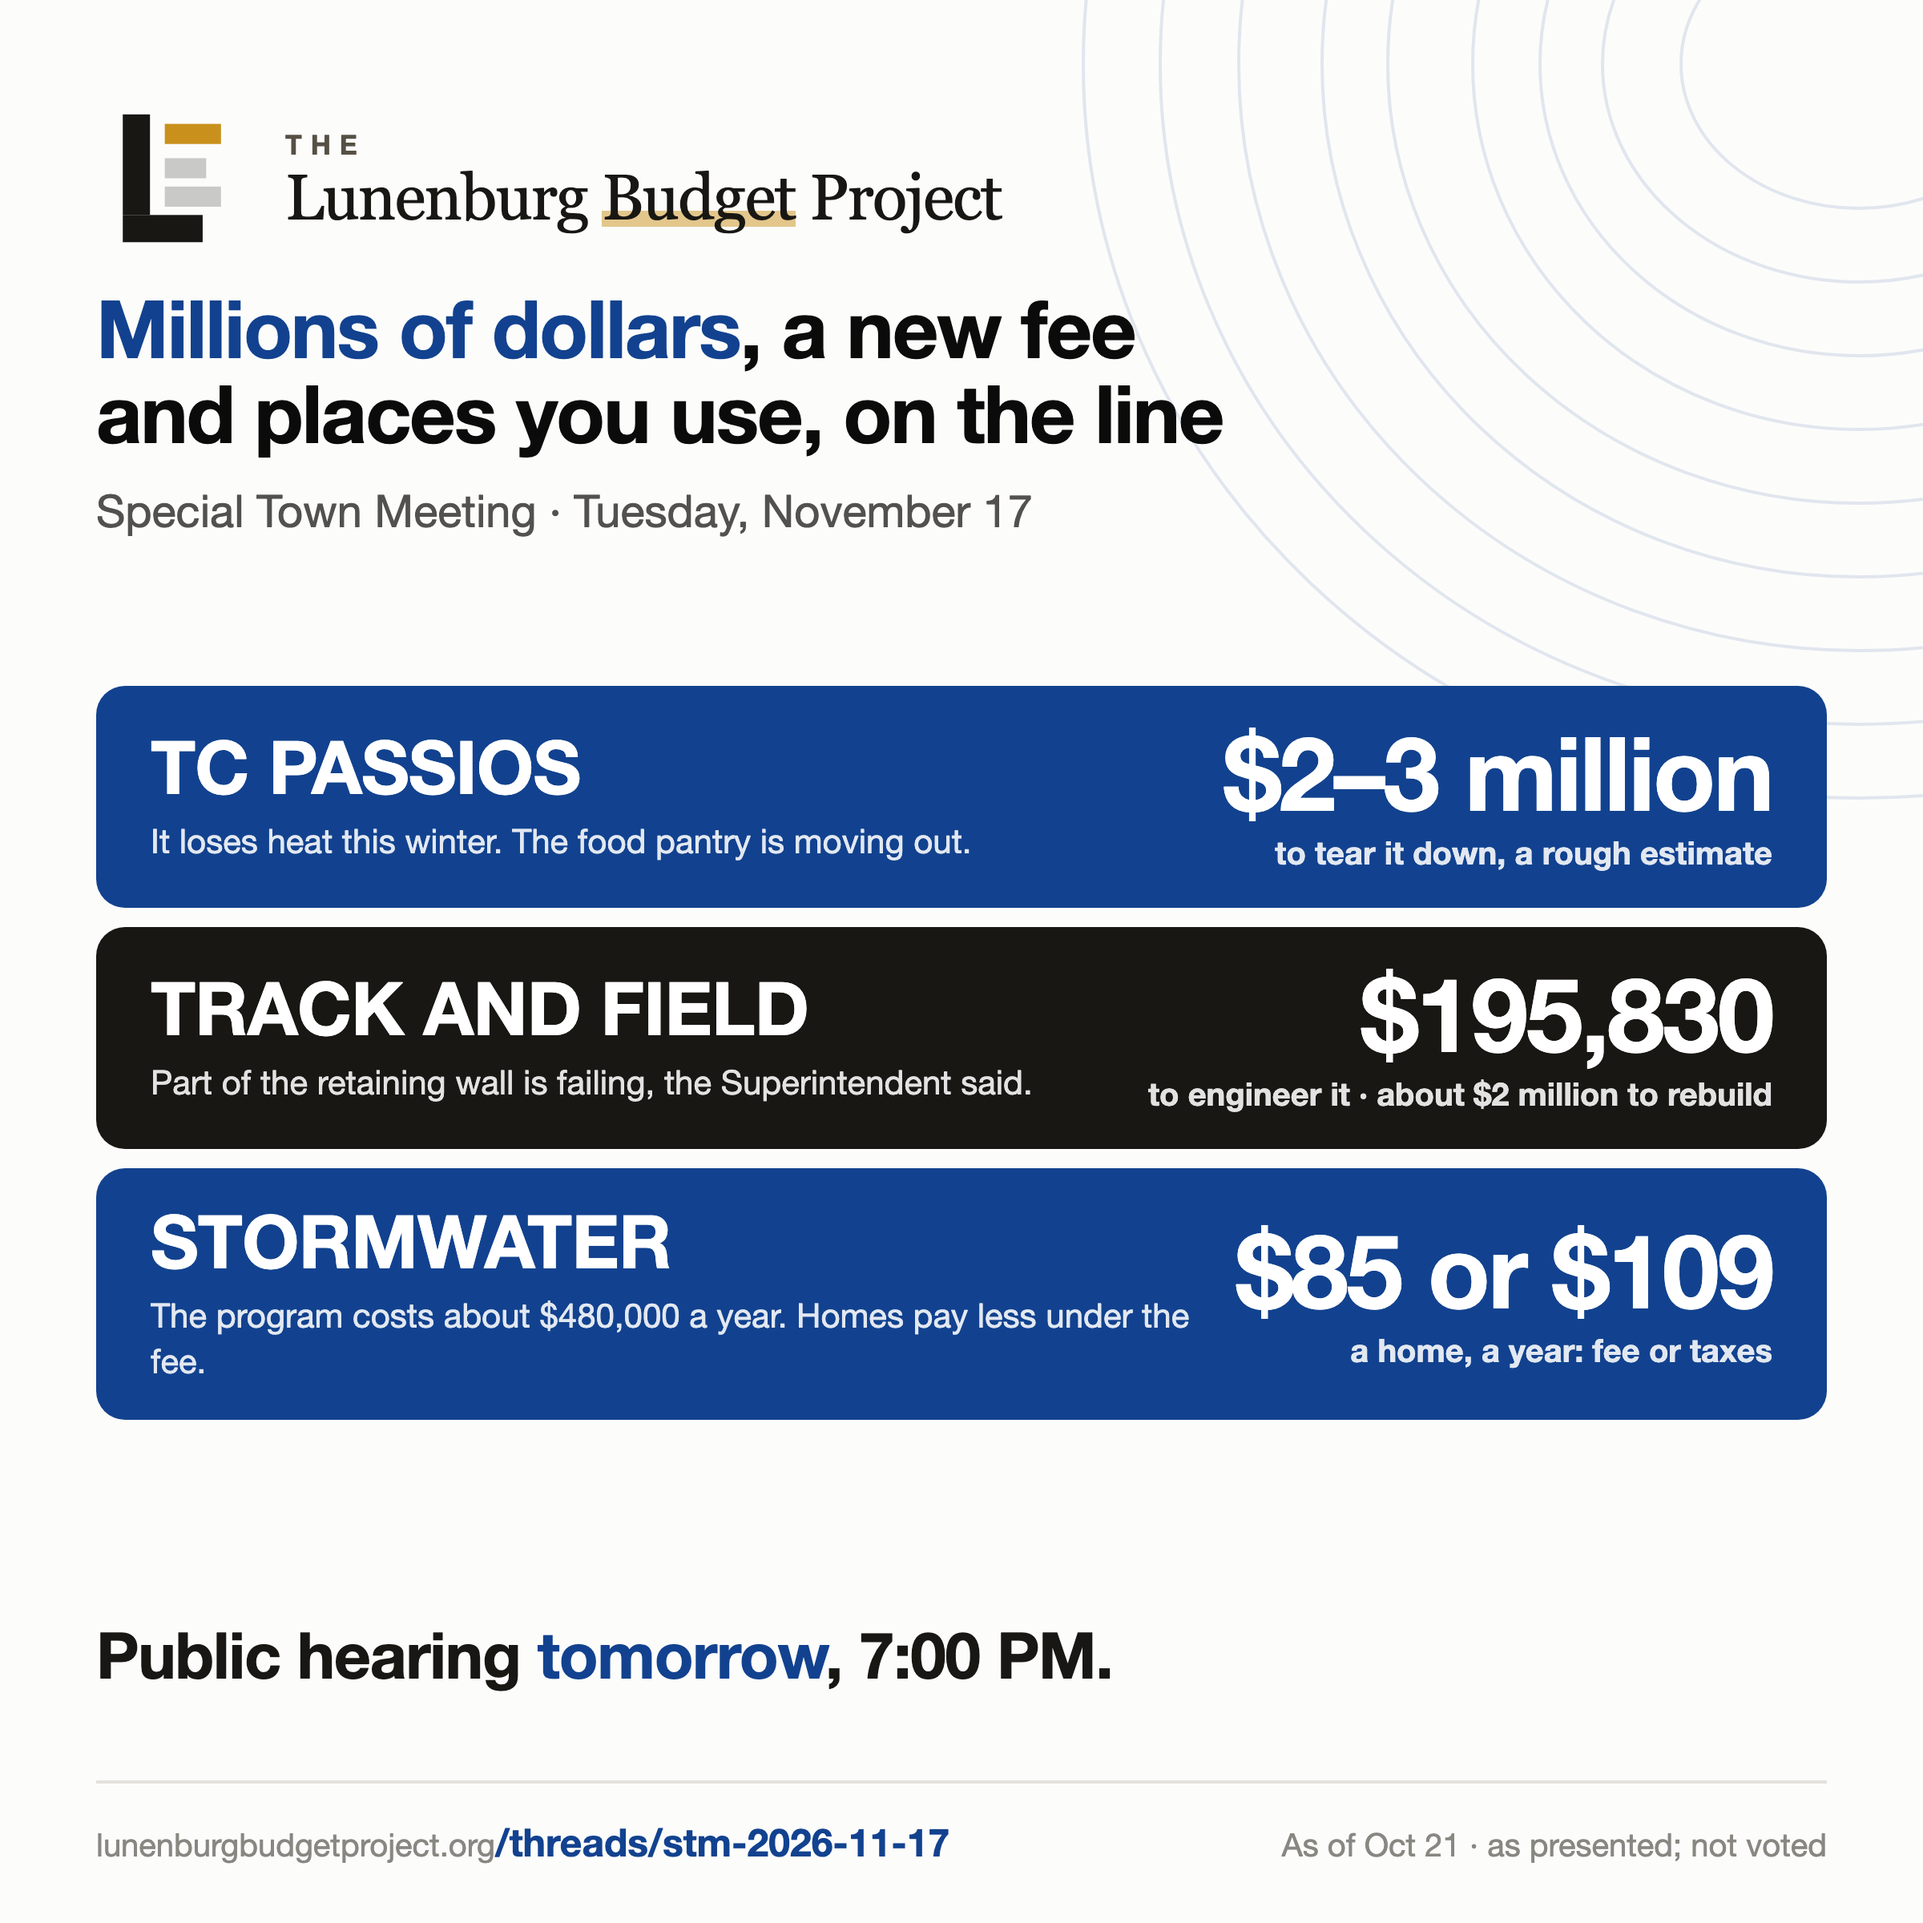
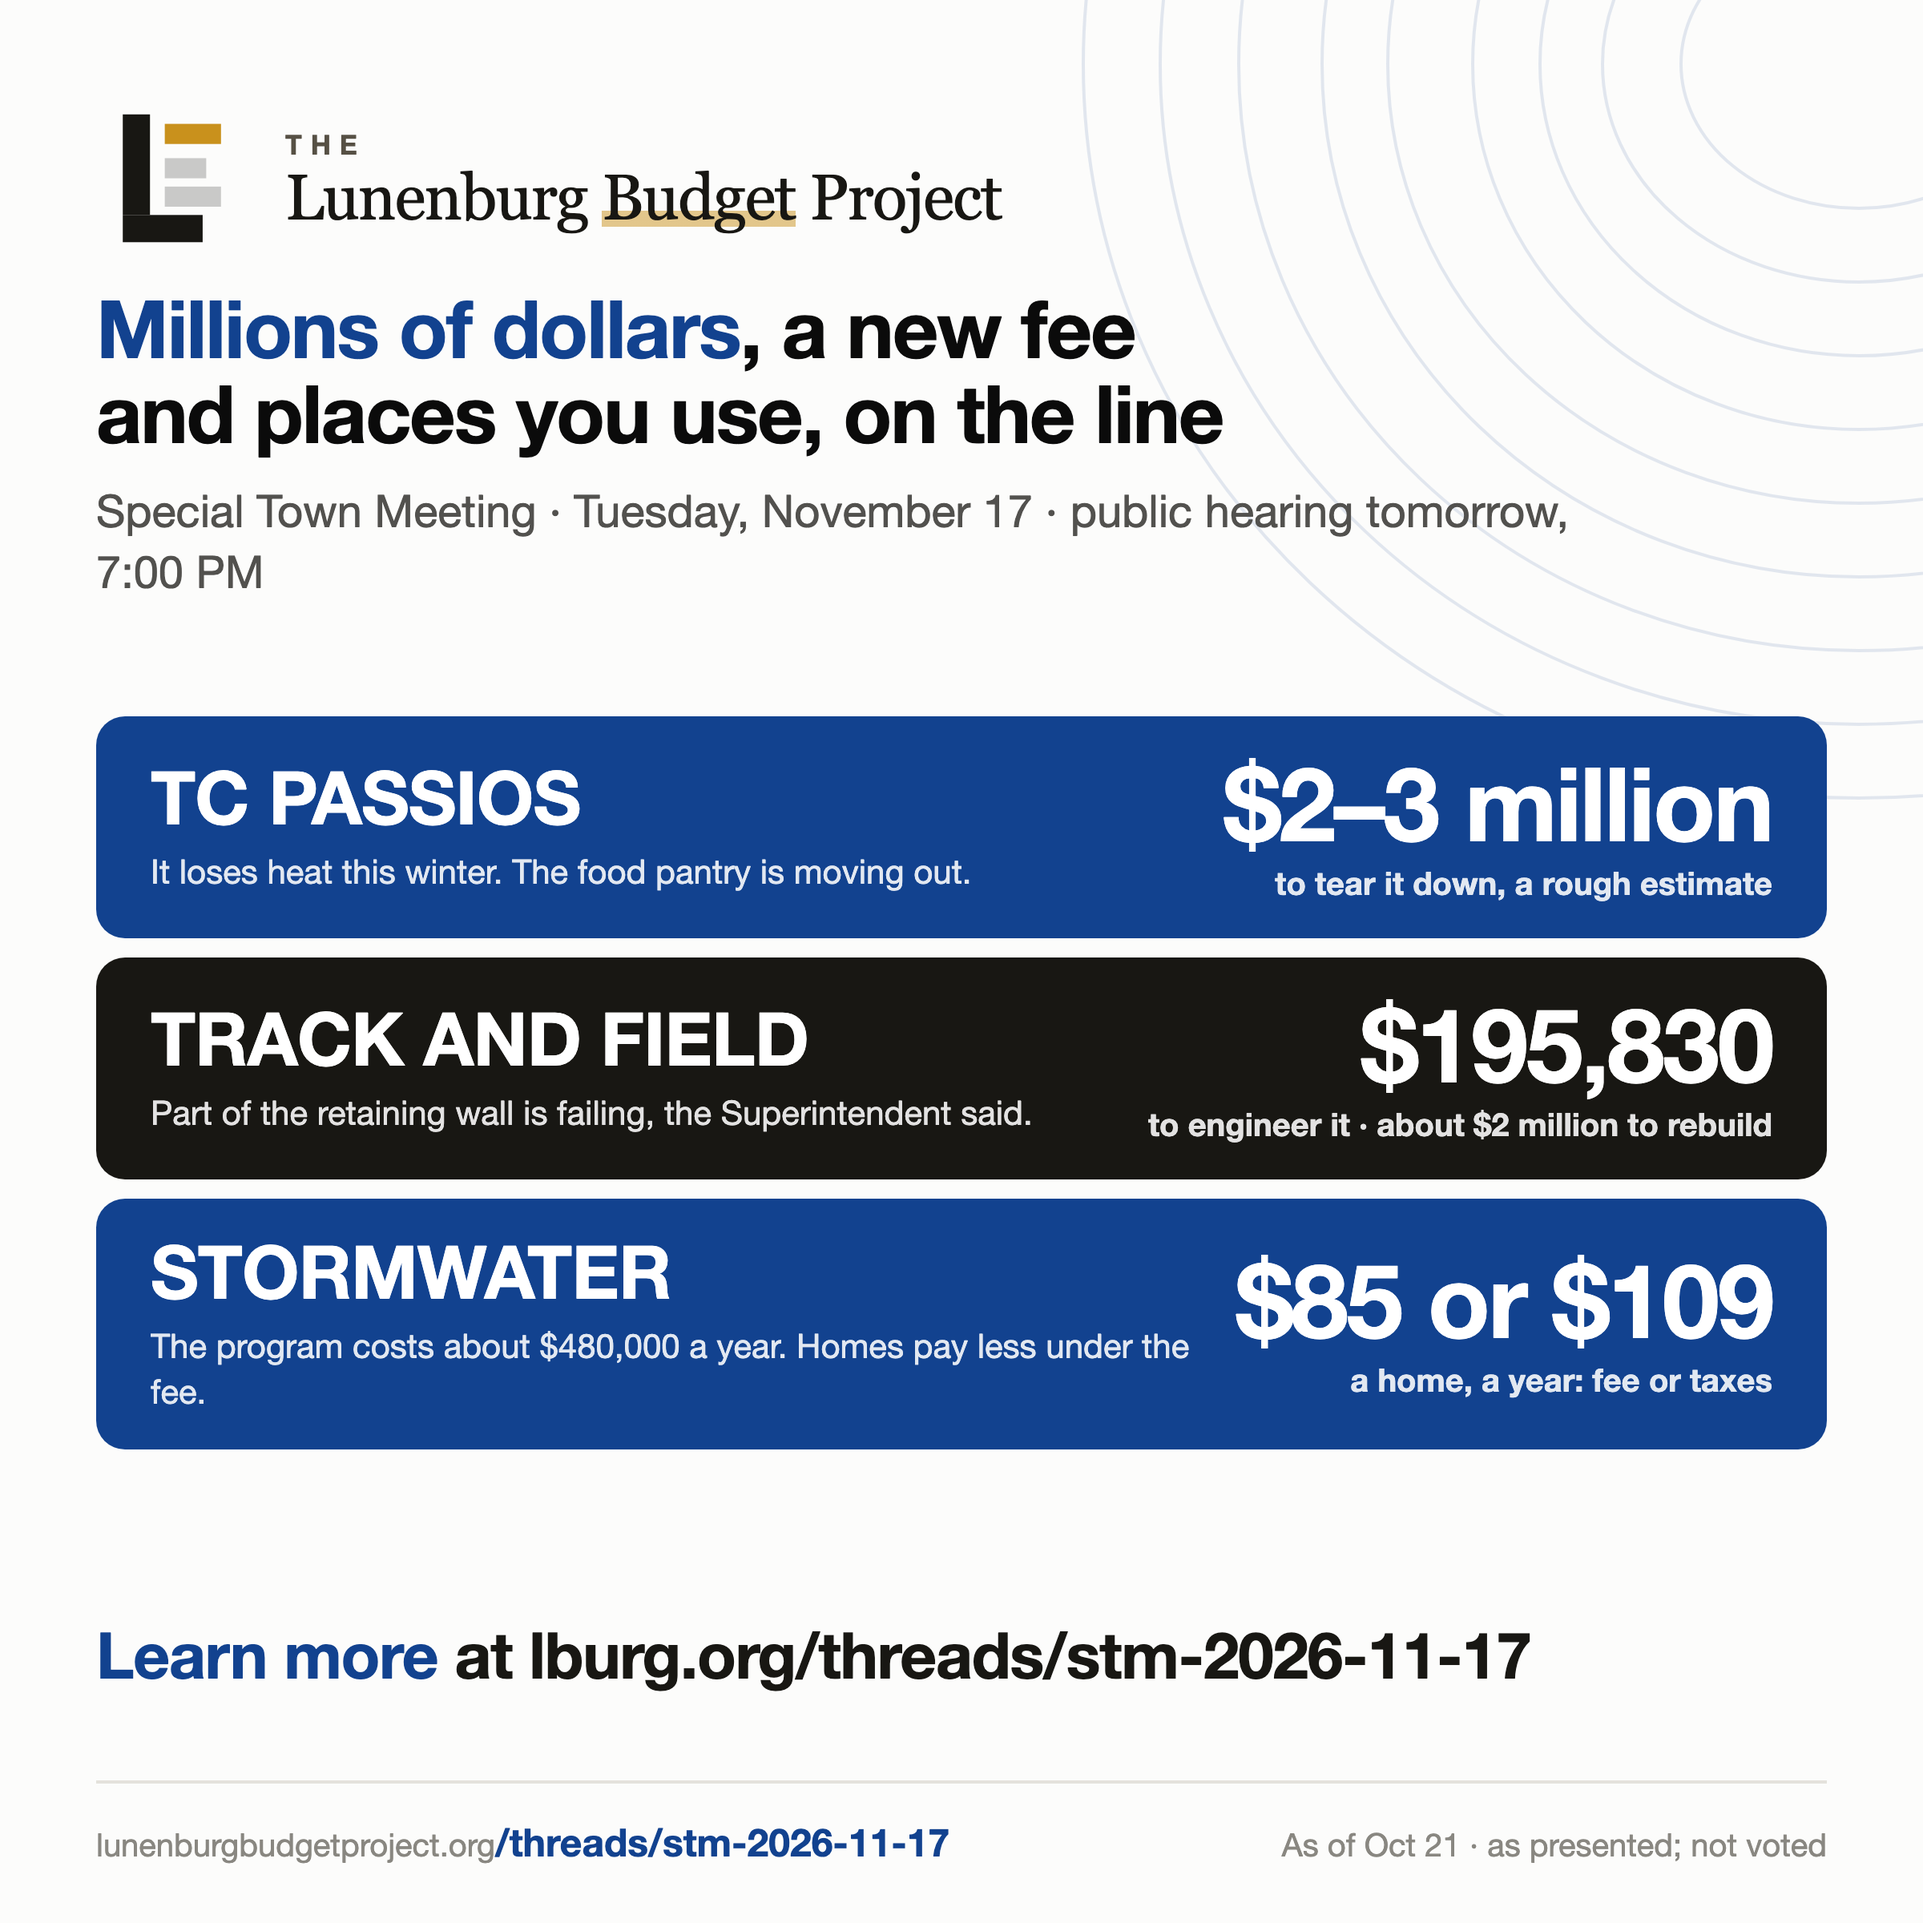
Nov 17 post: the link near the top and a LEARN MORE line; the image closes on the address
Facebook folds a post behind 'See more' after a few lines, so the link to the
town meeting board is now in the opening lines as well as at the end; the
image's closing line is 'Learn more at lburg.org/threads/stm-2026-11-17' and
the hearing moves into the subtitle.

Claude-Session: https://claude.ai/code/session_014fdUitnBS7xxmQNfQ1GHBV

diff --git a/social/posts/2026-10-21-town-meeting-nov-17/image.html b/social/posts/2026-10-21-town-meeting-nov-17/image.html
@@ -79,8 +79,8 @@ h1 em{font-style:normal;color:#12428f}
 <div class="frame">
 <div class="logo"><svg class="lm" viewBox="4 3 26 26"><rect x="8.5" y="5" width="4.6" height="17" fill="#181713"/><rect x="8.5" y="22" width="13.5" height="4.6" fill="#181713"/><rect x="15.6" y="6.6" width="9.5" height="3.4" fill="#c9911c"/><rect x="15.6" y="12.4" width="7" height="3.4" fill="#181713" opacity=".22"/><rect x="15.6" y="17.2" width="9.5" height="3.4" fill="#181713" opacity=".22"/></svg><div class="lw"><div class="lt">The</div><div class="ln" style="font-family:Georgia, &quot;Iowan Old Style&quot;, &quot;Times New Roman&quot;, serif">Lunenburg <span class="lhl">Budget</span> Project</div></div></div>
 <h1><em>Millions of dollars</em>, a new fee and places you use, on the line</h1>
-<p class="sub">Special Town Meeting · Tuesday, November 17</p>
+<p class="sub">Special Town Meeting · Tuesday, November 17 · public hearing tomorrow, 7:00 PM</p>
 <div class="body"><div class="bands"><div class="bd "><div class="bdl"><div class="bds">TC PASSIOS</div><div class="bdt">It loses heat this winter. The food pantry is moving out.</div></div><div class="bdr"><div class="bdv">$2–3 million</div><div class="bdu">to tear it down, a rough estimate</div></div></div><div class="bd alt"><div class="bdl"><div class="bds">TRACK AND FIELD</div><div class="bdt">Part of the retaining wall is failing, the Superintendent said.</div></div><div class="bdr"><div class="bdv">$195,830</div><div class="bdu">to engineer it · about $2 million to rebuild</div></div></div><div class="bd "><div class="bdl"><div class="bds">STORMWATER</div><div class="bdt">The program costs about $480,000 a year. Homes pay less under the fee.</div></div><div class="bdr"><div class="bdv">$85 or $109</div><div class="bdu">a home, a year: fee or taxes</div></div></div></div></div>
-<p class="concl">Public hearing <em>tomorrow</em>, 7:00 PM.</p>
+<p class="concl"><em>Learn more</em> at lburg.org/threads/stm-2026-11-17</p>
 <div class="foot"><span>lunenburgbudgetproject.org<b>/threads/stm-2026-11-17</b></span><span>As of Oct 21 · as presented; not voted</span></div>
 </div></body></html>
